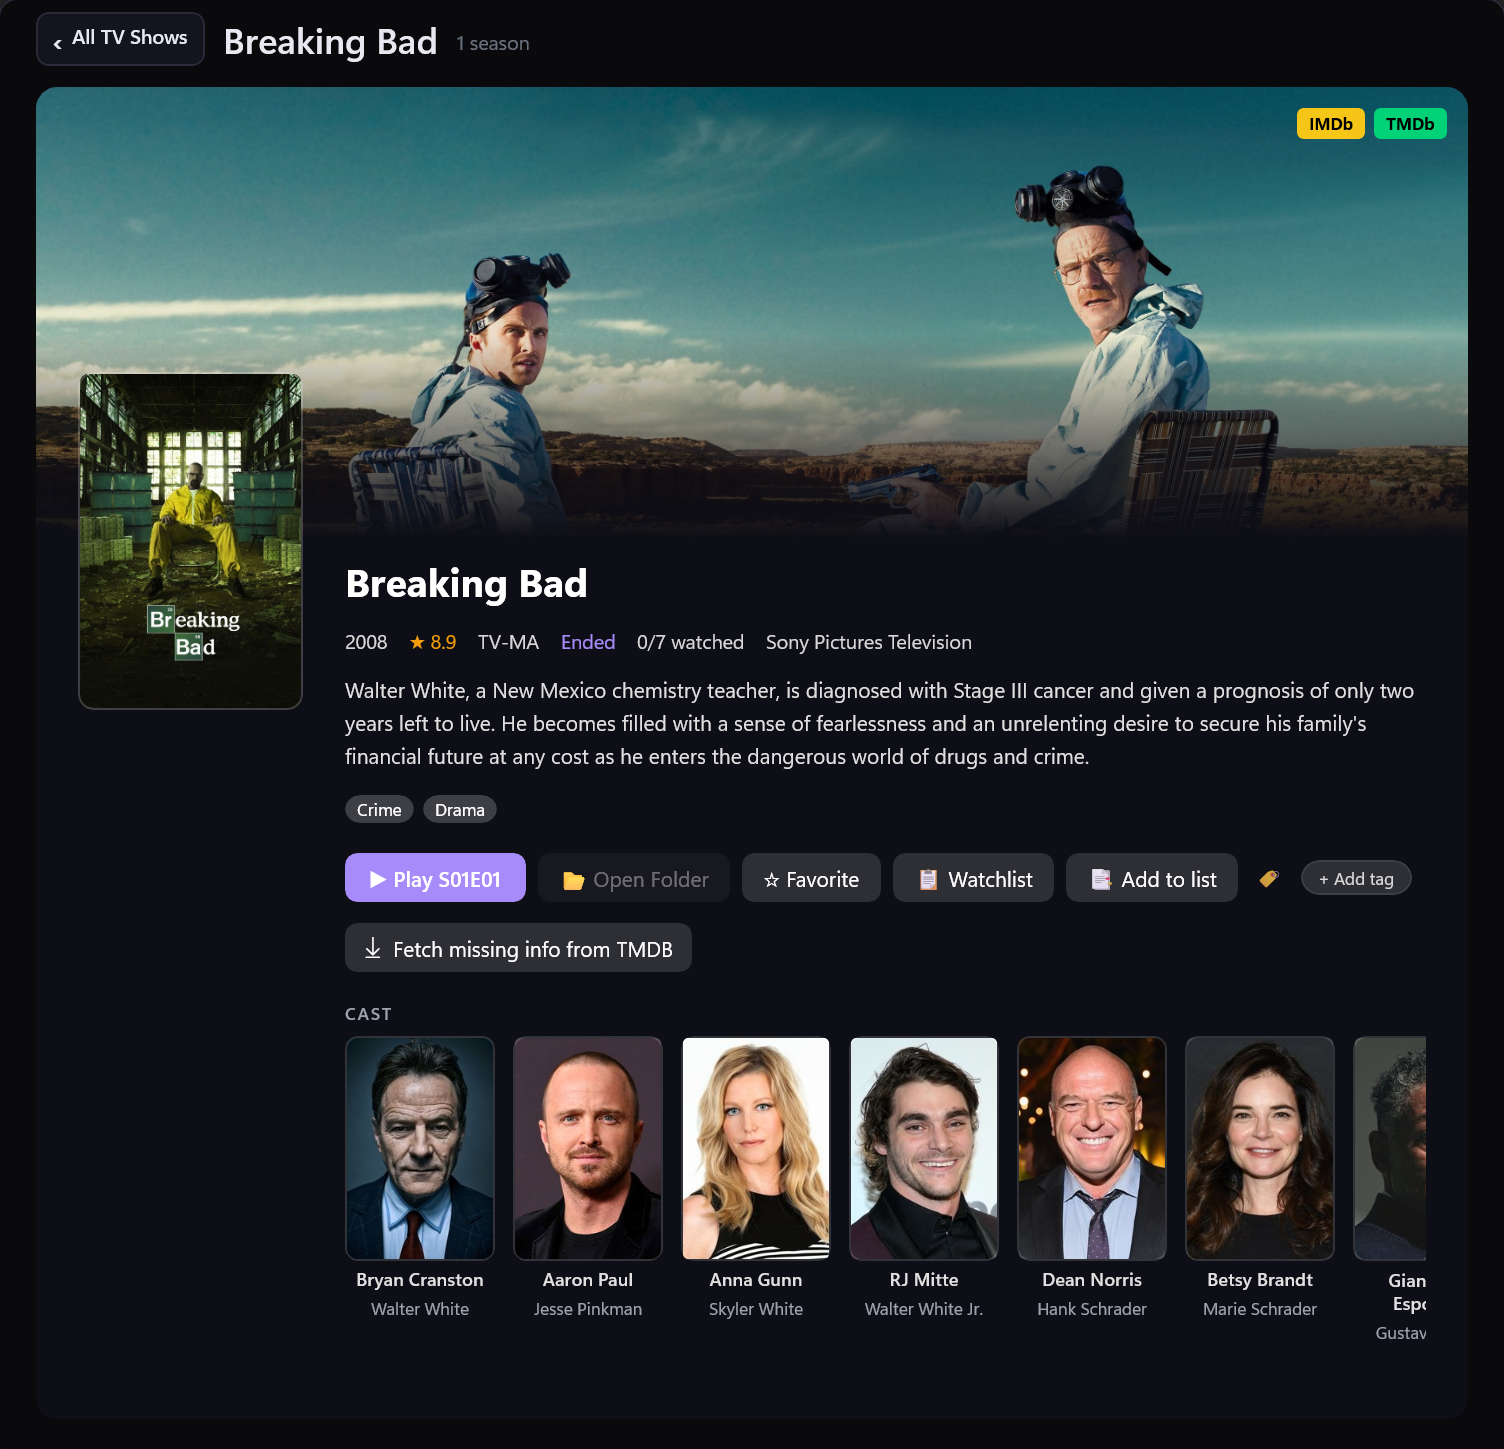
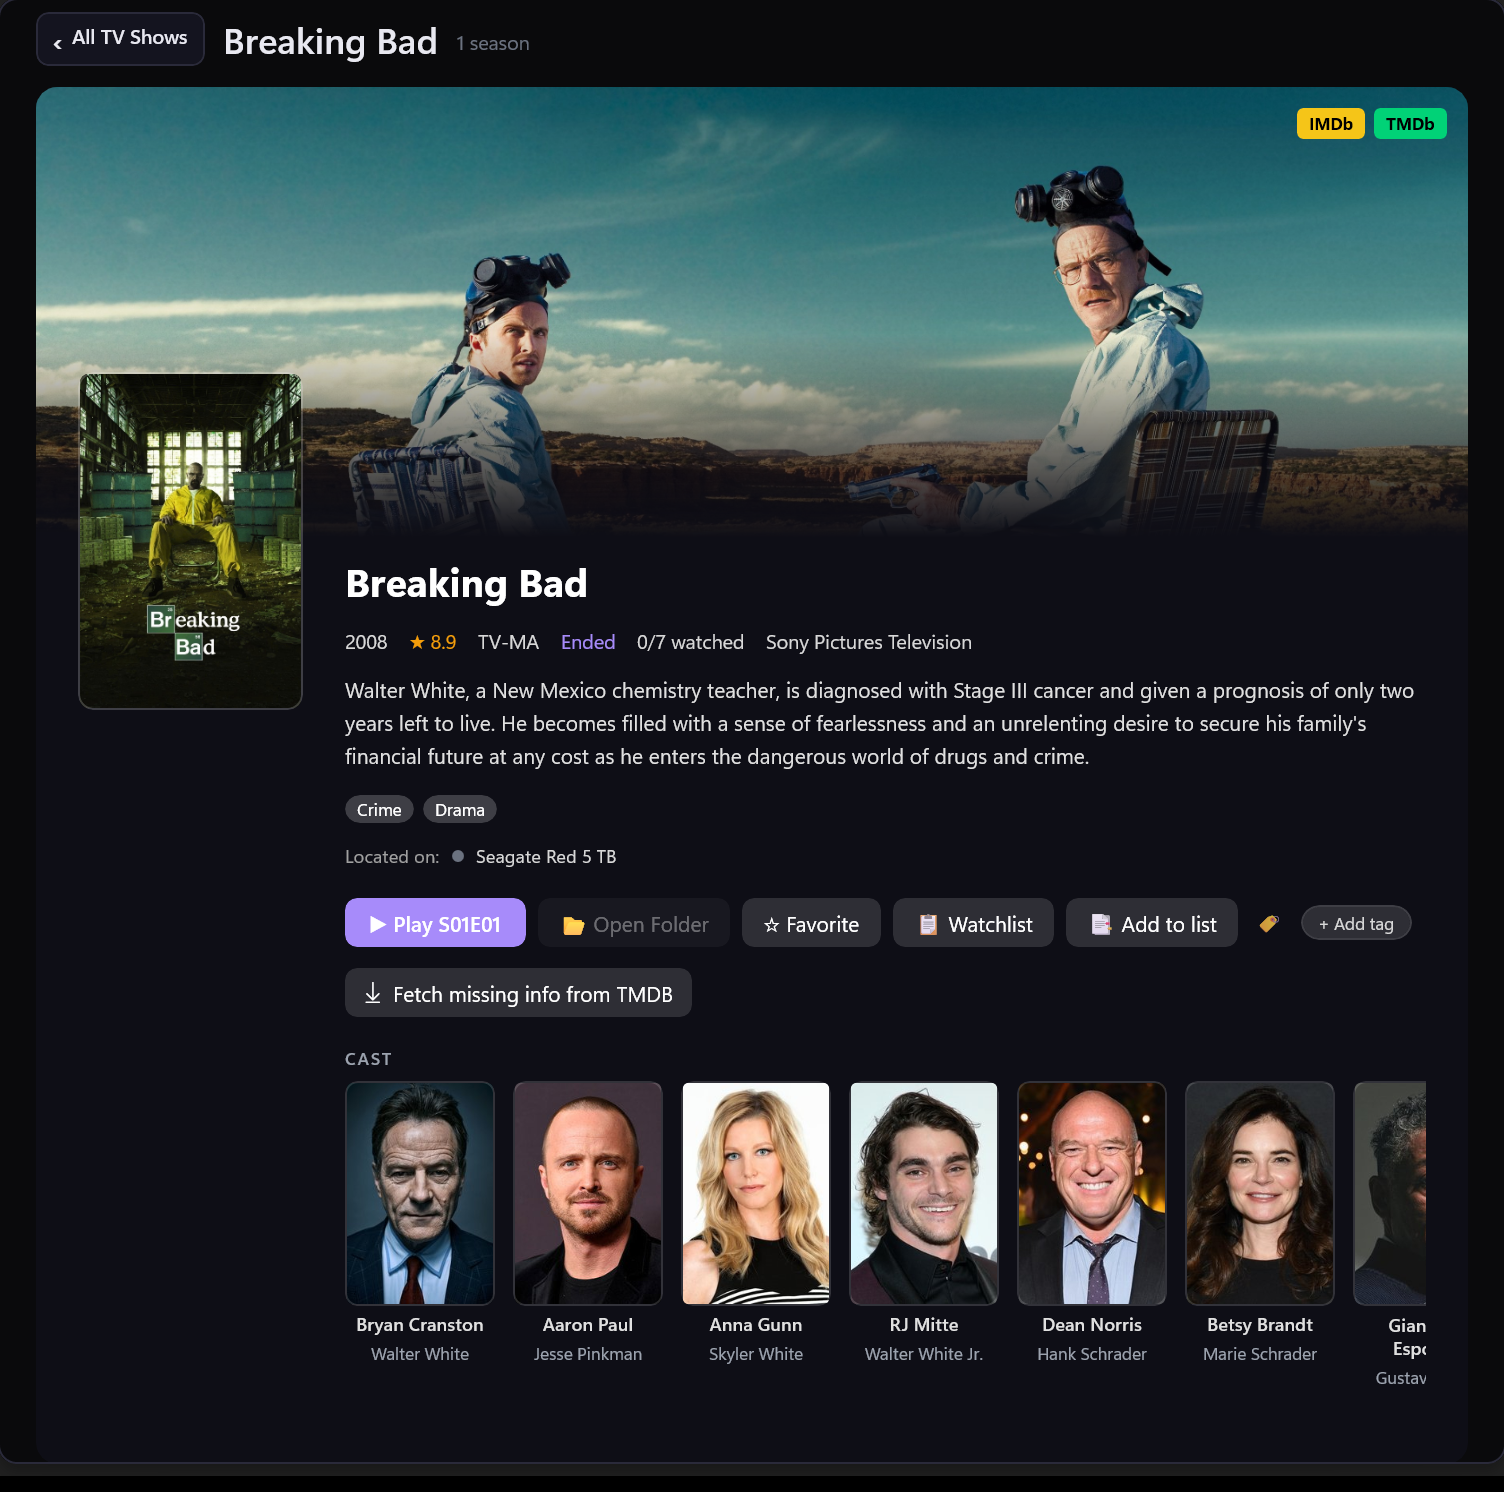
CineLibrary 4.0.1: What's new, download button, TV show screenshot with the drive line

diff --git a/cinelibrary/index.html b/cinelibrary/index.html
@@ -30,7 +30,7 @@
     </p>
     <div class="actions">
       <a class="btn btn-primary" data-dl data-repo="aungkokomm/CineLibraryCS" href="https://github.com/aungkokomm/CineLibraryCS/releases/latest" target="_blank" rel="noopener">
-        ⬇ Download v4.0.0
+        ⬇ Download v4.0.1
       </a>
       <a class="btn btn-ghost" href="https://github.com/aungkokomm/CineLibraryCS/blob/main/docs/USER_GUIDE.md" target="_blank" rel="noopener">
         📖 User Guide
@@ -58,27 +58,26 @@
       <img src="../assets/img/cinelibrary-library.png" alt="CineLibrary in dark theme: the All Movies poster grid, the sidebar and the title-bar search">
     </div>
     <div class="shot" style="max-width:900px;margin:24px auto">
-      <img src="../assets/img/cinelibrary-tv-show.png" alt="A TV show page in CineLibrary: the Breaking Bad fanart banner with IMDb and TMDb buttons, the poster, details, buttons and cast photo cards">
+      <img src="../assets/img/cinelibrary-tv-show.png" alt="A TV show page in CineLibrary: the Breaking Bad fanart banner with IMDb and TMDb buttons, the poster, details, the drive it is on, buttons and cast photo cards">
     </div>
   </div>
 </section>
 
 <section class="section">
   <div class="container">
-    <h2>What's new in v4.0.0: TV shows join Favorites, To Watch and Continue Watching ⭐</h2>
-    <p style="opacity:0.8;margin-bottom:1rem">Shows you love, want to watch or are partway through now sit right next to your movies.</p>
+    <h2>What's new in v4.0.1: the show page names its drive, and every cast photo shows 📺</h2>
+    <p style="opacity:0.8;margin-bottom:1rem">A small update to the TV show page.</p>
 
-    <h3 style="margin-top:1.5rem">📺 Your shows, where you look for them</h3>
+    <h3 style="margin-top:1.5rem">📺 On the show page</h3>
     <ul class="checklist">
-      <li><strong>Favorites and To Watch list your shows too,</strong> in a row above the movies. Mark a show as a favorite or add it to your watchlist on its page, and it shows up there.</li>
-      <li><strong>Continue Watching includes the shows you're partway through,</strong> most recently watched first.</li>
-      <li><strong>The counts add up:</strong> the To Watch and Continue Watching numbers in the sidebar include shows, and a page reads like "36 movies · 3 shows".</li>
+      <li><strong>Located on:</strong> the show page names the drive the show is on, with a green dot and its letter while it's connected, like the movie details window.</li>
+      <li><strong>Cast photos that only lived on the drive now fill in</strong> when you click Fetch missing info, so every actor has a face while the drive is unplugged. Run it once more on a show where some photos were missing.</li>
     </ul>
 
-    <h3 style="margin-top:1.5rem">🧭 Clearer pages</h3>
+    <h3 style="margin-top:1.5rem">⭐ Also recent: TV shows join Favorites, To Watch and Continue Watching (v4.0.0)</h3>
     <ul class="checklist">
-      <li><strong>Page titles say where you are:</strong> Favorites, To watch, Continue watching, Notes, Recently added and Recently watched, instead of "All movies".</li>
-      <li><strong>Show cards use your TV poster size everywhere,</strong> and the shows row fits them neatly.</li>
+      <li><strong>Favorites, To Watch and Continue Watching list your shows too,</strong> in a row above the movies, and the sidebar counts include them.</li>
+      <li><strong>Page titles say where you are,</strong> instead of "All movies".</li>
     </ul>
 
     <h3 style="margin-top:1.5rem">📺 Also recent: a new TV show page (v3.10.0)</h3>
